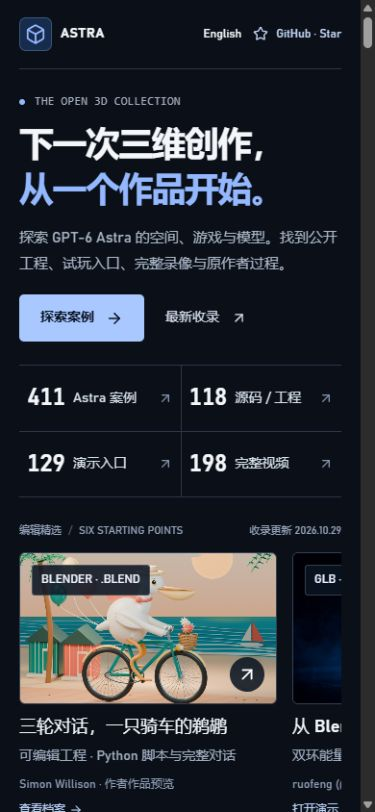
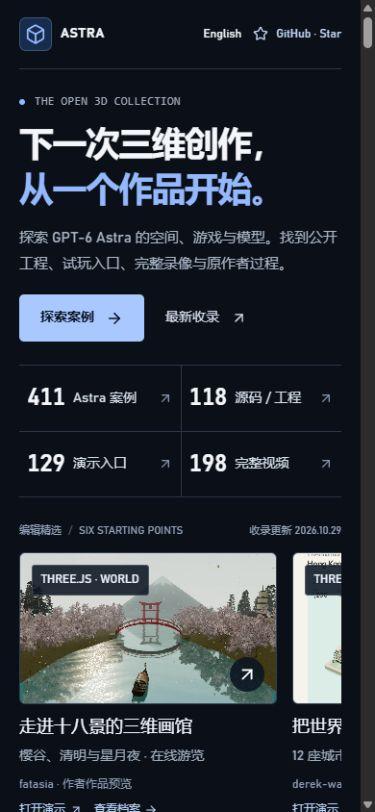
Refresh featured works and direct demo links
R-0002: update the bilingual README and website selection, preserve archive access, and verify the creator-hosted entry points.

Changed region(s): [[0.0293, 0.6773, 0.9387, 1.0]]

diff --git a/app/welcome.tsx b/app/welcome.tsx
@@ -20,43 +20,37 @@ import { collectionHref, navigateToSection } from '@/src/section-navigation';
 const github = 'https://github.com/carpentry-liu/awesome-astra-3d';
 const spotlights = [
   {
-    id: 'simonw-pelican-bicycle',
-    name: [
-      '三轮对话，一只骑车的鹈鹕',
-      'A pelican, a bicycle, three iterations',
-    ],
-    label: 'BLENDER · .BLEND',
-    note: [
-      '可编辑工程 · Python 脚本与完整对话',
-      'Editable project · Python scripts & transcript',
-    ],
-  },
-  {
-    id: 'ruofeng-orbital-core',
-    name: ['从 Blender，来到你的浏览器', 'From Blender to your browser'],
-    label: 'GLB · THREE.JS',
-    note: [
-      '双环能量核心 · 模型与前端代码',
-      'Orbital Core · Model & frontend code',
-    ],
-  },
-  {
-    id: 'peter-van-gogh-town',
-    name: ['走进梵高画里的小镇', 'Walk into a painted world'],
+    id: 'fatasia-within-gallery',
+    name: ['走进十八景的三维画馆', 'Explore eighteen 3D worlds'],
     label: 'THREE.JS · WORLD',
     note: [
-      '可连续漫步 · 原始单文件网页',
-      'A walkable town · Original single-file page',
+      '樱谷、清明与星月夜 · 在线游览',
+      'Sakura, painted cities & night skies',
     ],
   },
   {
-    id: 'scottstts-jelly-baby',
-    name: ['拉伸、抛掷，和果冻玩一会儿', 'Stretch, throw and play with jelly'],
+    id: 'derek-opencitymaker',
+    name: ['把世界地标拼成三维 2048', 'Build a city, one merge at a time'],
     label: 'THREE.JS · GAME',
     note: [
-      '果冻角色游乐场 · 演示与源码',
-      'Jelly Baby playground · Demo & source',
+      '12 座城市 · 可旋转的建筑拼图',
+      'Twelve cities · Playable landmark puzzle',
     ],
+  },
+  {
+    id: 'kosti-shenzhen-night-market',
+    name: ['走进雨后的深圳夜市', 'Explore Shenzhen after the rain'],
+    label: 'BLENDER · THREE.JS',
+    note: [
+      'Blender 成果 · Three.js 在线场景',
+      'Blender render · Three.js scene',
+    ],
+  },
+  {
+    id: 'pratikgx-embryo-explorer',
+    name: ['拆开看十六阶段三维示意', 'Explore sixteen stages in 3D'],
+    label: 'THREE.JS · EDUCATION',
+    note: ['可缩放、拆分的教育示意', 'Zoomable, explodable educational model'],
   },
   {
     id: 'bambssquad-jetis-digital-twin',
@@ -236,13 +230,19 @@ export function Welcome({
             const item = astra.find((c) => c.id === entry.id);
             if (!item) return null;
             const href = caseHref(item.id, locale);
+            const primaryHref = item.demoUrl ?? href;
+            const demoLink = Boolean(item.demoUrl);
             return (
               <article className="featured-work" key={entry.id}>
                 <a
-                  href={href}
+                  href={primaryHref}
                   className="featured-art"
-                  onClick={(event) => onOpen(event, item)}
-                  aria-label={`${t.openArchive}: ${workTitle(item, locale)}`}
+                  target={demoLink ? '_blank' : undefined}
+                  rel={demoLink ? 'noreferrer' : undefined}
+                  onClick={
+                    demoLink ? undefined : (event) => onOpen(event, item)
+                  }
+                  aria-label={`${demoLink ? t.openDemo : t.openArchive}: ${workTitle(item, locale)}`}
                 >
                   {item.imageUrl && !failedImages.includes(item.id) ? (
                     <img
@@ -258,7 +258,7 @@ export function Welcome({
                   ) : (
                     <div className="spotlight-fallback">
                       <Layers3 size={40} />
-                      <span>{t.openArchive}</span>
+                      <span>{demoLink ? t.openDemo : t.openArchive}</span>
                     </div>
                   )}
                   <span className="featured-label">{entry.label}</span>
@@ -268,7 +268,14 @@ export function Welcome({
                 </a>
                 <div className="featured-caption">
                   <h2>
-                    <a href={href} onClick={(event) => onOpen(event, item)}>
+                    <a
+                      href={primaryHref}
+                      target={demoLink ? '_blank' : undefined}
+                      rel={demoLink ? 'noreferrer' : undefined}
+                      onClick={
+                        demoLink ? undefined : (event) => onOpen(event, item)
+                      }
+                    >
                       {entry.name[languageIndex]}
                     </a>
                   </h2>
@@ -277,15 +284,25 @@ export function Welcome({
                     <span>
                       {item.author} · {t.preview}
                     </span>
-                    {item.demoUrl ? (
-                      <a href={item.demoUrl} target="_blank" rel="noreferrer">
-                        {t.openDemo} <ArrowUpRight size={14} />
+                    <div className="featured-links">
+                      {item.demoUrl && (
+                        <a
+                          href={item.demoUrl}
+                          target="_blank"
+                          rel="noreferrer"
+                          aria-label={`${t.openDemo}: ${workTitle(item, locale)}`}
+                        >
+                          {t.openDemo} <ArrowUpRight size={14} />
+                        </a>
+                      )}
+                      <a
+                        href={href}
+                        onClick={(event) => onOpen(event, item)}
+                        aria-label={`${t.openArchive}: ${workTitle(item, locale)}`}
+                      >
+                        {t.openArchive} <ArrowRight size={14} />
                       </a>
-                    ) : (
-                      <a href={href} onClick={(event) => onOpen(event, item)}>
-                        {t.process} <ArrowRight size={14} />
-                      </a>
-                    )}
+                    </div>
                   </div>
                 </div>
               </article>

diff --git a/app/welcome.css b/app/welcome.css
@@ -148,6 +148,12 @@
   min-width: 0;
   overflow-wrap: anywhere;
 }
+.featured-links {
+  display: flex;
+  gap: 6px 12px;
+  flex-wrap: wrap;
+  justify-content: flex-end;
+}
 .featured-credit a,
 .featured-credit button {
   display: inline-flex;

diff --git a/README.en.md b/README.en.md
@@ -20,15 +20,15 @@ Source / project totals count public material links; demo totals count creator-h
 
 ## Six featured works to start from
 
-| Pelican on a bicycle · Simon Willison | Orbital Core · ruofeng | Van Gogh's Town · Peter Gostev |
+| [WITHIN · fatasia](https://fatasia.github.io/within/) | [CityMaker · derek-wangpch](https://citymaker.0to1app.com/) | [Shenzhen After Rain · Skyline](https://kostikoneuro.github.io/kimi-vs-astra/2a-diorama/astra/) |
 | --- | --- | --- |
-| [![Pelican on a bicycle — Simon Willison](https://static.simonwillison.net/static/2026/astra-blender-pelican.jpg)](https://carpentry-liu.github.io/awesome-astra-3d/en/cases/simonw-pelican-bicycle/) | [![Orbital Core — ruofeng / @oneruofeng](https://pbs.twimg.com/amplify_video_thumb/2096549512995368961/img/kyuKVBrCE5i7fHA8.jpg)](https://carpentry-liu.github.io/awesome-astra-3d/en/cases/ruofeng-orbital-core/) | [![Van Gogh's Town — Peter Gostev / @petergostev](https://pbs.twimg.com/amplify_video_thumb/2095776416302280708/img/IzfZe03VWW3gBzC6.jpg)](https://carpentry-liu.github.io/awesome-astra-3d/en/cases/peter-van-gogh-town/) |
-| Three `.blend` iterations, scripts and conversations to compare geometry and composition. | Blender → GLB → Three.js, with assets and interaction code. | A continuous painted world, with original HTML, task sources and a complete clip. |
-| Jelly Baby · Scott | Jetis · bambssquad / Bam | Five 3D stories · az9713 |
-| [![Jelly Baby — Scott / @scottstts](https://pbs.twimg.com/amplify_video_thumb/2096364109210202112/img/_-nTPLScjLl70avL.jpg)](https://carpentry-liu.github.io/awesome-astra-3d/en/cases/scottstts-jelly-baby/) | [![Jetis factory digital twin — bambssquad / Bam](https://raw.githubusercontent.com/bambssquad/jetis-digital-twin-astra/main/outputs/revision02-overview.jpg)](https://carpentry-liu.github.io/awesome-astra-3d/en/cases/bambssquad-jetis-digital-twin/) | [![Golden Gate bridge assembly — az9713](https://raw.githubusercontent.com/az9713/gpt-6-astra-builds/main/latest/screenshots/04-golden-gate.png)](https://carpentry-liu.github.io/awesome-astra-3d/en/cases/az9713-refined-animations/) |
-| Stretch and throw a Three.js character; inspect the creator's demo and code. | DWG-based factory walkthrough and SketchUp export, with explicit dimension assumptions. | Five twenty-second procedural scenes, Three.js / TSL code and development notes. |
+| [![WITHIN's Sakura scene](https://raw.githubusercontent.com/fatasia/within/main/public/previews/sakura.webp)](https://fatasia.github.io/within/) | [![CityMaker's 3D city puzzle](https://raw.githubusercontent.com/derek-wangpch/OpenCityMaker/master/docs/images/citymaker-game.png)](https://citymaker.0to1app.com/) | [![Shenzhen After Rain Blender render](https://raw.githubusercontent.com/KostiKoNeuro/kimi-vs-astra/main/2b-blender/astra/hero.png)](https://kostikoneuro.github.io/kimi-vs-astra/2a-diorama/astra/) |
+| Explore eighteen worlds, from Sakura to painted cities.<br>[Try the demo](https://fatasia.github.io/within/) · [Case](https://carpentry-liu.github.io/awesome-astra-3d/en/cases/fatasia-within-gallery/) · [Source](https://github.com/fatasia/within) | Merge landmarks into a 3D game of 2048.<br>[Try the demo](https://citymaker.0to1app.com/) · [Case](https://carpentry-liu.github.io/awesome-astra-3d/en/cases/derek-opencitymaker/) · [Source](https://github.com/derek-wangpch/OpenCityMaker) | The image is a Blender render; the demo is a Three.js scene of the same market.<br>[Try the demo](https://kostikoneuro.github.io/kimi-vs-astra/2a-diorama/astra/) · [Case](https://carpentry-liu.github.io/awesome-astra-3d/en/cases/kosti-shenzhen-night-market/) · [Source](https://github.com/KostiKoNeuro/kimi-vs-astra) |
+| [Embryo Explorer · Pratik Gandhi](https://embryoexplorer.com/) | [Jetis · bambssquad / Bam](https://bambssquad.github.io/jetis-digital-twin-astra/) | [Five 3D stories · az9713](https://az9713.github.io/gpt-6-astra-builds/latest/) |
+| [![Embryo Explorer's sixteen-stage educational model](https://raw.githubusercontent.com/pratikgx/embryo-explorer/main/media/preview.jpg)](https://embryoexplorer.com/) | [![Jetis factory digital twin — bambssquad / Bam](https://raw.githubusercontent.com/bambssquad/jetis-digital-twin-astra/main/outputs/revision02-overview.jpg)](https://bambssquad.github.io/jetis-digital-twin-astra/) | [![Golden Gate bridge assembly — az9713](https://raw.githubusercontent.com/az9713/gpt-6-astra-builds/main/latest/screenshots/04-golden-gate.png)](https://az9713.github.io/gpt-6-astra-builds/latest/) |
+| Zoom into and explore a simplified educational model.<br>[Try the demo](https://embryoexplorer.com/) · [Case](https://carpentry-liu.github.io/awesome-astra-3d/en/cases/pratikgx-embryo-explorer/) · [Source](https://github.com/pratikgx/embryo-explorer) | A DWG-based factory walkthrough and SketchUp export, with dimension assumptions.<br>[Try the demo](https://bambssquad.github.io/jetis-digital-twin-astra/) · [Case](https://carpentry-liu.github.io/awesome-astra-3d/en/cases/bambssquad-jetis-digital-twin/) · [Source](https://github.com/bambssquad/jetis-digital-twin-astra) | Five twenty-second procedural scenes and development notes.<br>[Try the demo](https://az9713.github.io/gpt-6-astra-builds/latest/) · [Case](https://carpentry-liu.github.io/awesome-astra-3d/en/cases/az9713-refined-animations/) · [Source](https://github.com/az9713/gpt-6-astra-builds) |
 
-Open an image for the case, materials and known limitations. This selection stays stable; new additions are listed separately below. Preview images remain on creator hosts.
+Select a title or image to open the creator's demo directly. Case pages retain sources, materials and known limitations. Demos are creator-hosted and some require WebGL; preview images remain on creator hosts.
 
 ## Choose materials and make one small change
 

diff --git a/README.md b/README.md
@@ -20,15 +20,15 @@
 
 ## 六件精选，先选一个想继续做的作品
 
-| 鹈鹕骑车 · Simon Willison | Orbital Core · ruofeng | 梵高小镇 · Peter Gostev |
+| [入画 WITHIN · fatasia](https://fatasia.github.io/within/) | [CityMaker · derek-wangpch](https://citymaker.0to1app.com/) | [深圳雨夜市集 · Skyline](https://kostikoneuro.github.io/kimi-vs-astra/2a-diorama/astra/) |
 | --- | --- | --- |
-| [![鹈鹕骑车 — Simon Willison](https://static.simonwillison.net/static/2026/astra-blender-pelican.jpg)](https://carpentry-liu.github.io/awesome-astra-3d/cases/simonw-pelican-bicycle/) | [![Orbital Core — ruofeng / @oneruofeng](https://pbs.twimg.com/amplify_video_thumb/2096549512995368961/img/kyuKVBrCE5i7fHA8.jpg)](https://carpentry-liu.github.io/awesome-astra-3d/cases/ruofeng-orbital-core/) | [![梵高小镇 — Peter Gostev / @petergostev](https://pbs.twimg.com/amplify_video_thumb/2095776416302280708/img/IzfZe03VWW3gBzC6.jpg)](https://carpentry-liu.github.io/awesome-astra-3d/cases/peter-van-gogh-town/) |
-| 三轮 `.blend`、脚本与对话，研究网格和构图怎样迭代。 | Blender → GLB → Three.js，查看模型与交互的连接。 | 连续绘画世界，查看原始 HTML、任务来源与完整录像。 |
-| Jelly Baby · Scott | Jetis · bambssquad / Bam | 五个三维故事 · az9713 |
-| [![Jelly Baby — Scott / @scottstts](https://pbs.twimg.com/amplify_video_thumb/2096364109210202112/img/_-nTPLScjLl70avL.jpg)](https://carpentry-liu.github.io/awesome-astra-3d/cases/scottstts-jelly-baby/) | [![Jetis 工厂数字孪生 — bambssquad / Bam](https://raw.githubusercontent.com/bambssquad/jetis-digital-twin-astra/main/outputs/revision02-overview.jpg)](https://carpentry-liu.github.io/awesome-astra-3d/cases/bambssquad-jetis-digital-twin/) | [![金门大桥吊装 — az9713](https://raw.githubusercontent.com/az9713/gpt-6-astra-builds/main/latest/screenshots/04-golden-gate.png)](https://carpentry-liu.github.io/awesome-astra-3d/cases/az9713-refined-animations/) |
-| 可拉伸、抛掷的 Three.js 角色，带作者演示与源码。 | DWG 到工厂漫游与 SketchUp 导出；尺寸假设另有说明。 | 五个二十秒程序场景，查看 Three.js / TSL 源码与制作讲解。 |
+| [![入画 WITHIN 的樱谷场景](https://raw.githubusercontent.com/fatasia/within/main/public/previews/sakura.webp)](https://fatasia.github.io/within/) | [![CityMaker 城市拼图](https://raw.githubusercontent.com/derek-wangpch/OpenCityMaker/master/docs/images/citymaker-game.png)](https://citymaker.0to1app.com/) | [![深圳雨夜市集的 Blender 成果图](https://raw.githubusercontent.com/KostiKoNeuro/kimi-vs-astra/main/2b-blender/astra/hero.png)](https://kostikoneuro.github.io/kimi-vs-astra/2a-diorama/astra/) |
+| 游览樱谷、清明等十八个三维世界。<br>[在线体验](https://fatasia.github.io/within/) · [作品档案](https://carpentry-liu.github.io/awesome-astra-3d/cases/fatasia-within-gallery/) · [源码](https://github.com/fatasia/within) | 把世界地标拼成三维 2048。<br>[在线体验](https://citymaker.0to1app.com/) · [作品档案](https://carpentry-liu.github.io/awesome-astra-3d/cases/derek-opencitymaker/) · [源码](https://github.com/derek-wangpch/OpenCityMaker) | 图为 Blender 成果，演示为同主题 Three.js 夜市。<br>[在线体验](https://kostikoneuro.github.io/kimi-vs-astra/2a-diorama/astra/) · [作品档案](https://carpentry-liu.github.io/awesome-astra-3d/cases/kosti-shenzhen-night-market/) · [源码](https://github.com/KostiKoNeuro/kimi-vs-astra) |
+| [Embryo Explorer · Pratik Gandhi](https://embryoexplorer.com/) | [Jetis · bambssquad / Bam](https://bambssquad.github.io/jetis-digital-twin-astra/) | [五个三维故事 · az9713](https://az9713.github.io/gpt-6-astra-builds/latest/) |
+| [![Embryo Explorer 十六阶段三维示意](https://raw.githubusercontent.com/pratikgx/embryo-explorer/main/media/preview.jpg)](https://embryoexplorer.com/) | [![Jetis 工厂数字孪生 — bambssquad / Bam](https://raw.githubusercontent.com/bambssquad/jetis-digital-twin-astra/main/outputs/revision02-overview.jpg)](https://bambssquad.github.io/jetis-digital-twin-astra/) | [![金门大桥吊装 — az9713](https://raw.githubusercontent.com/az9713/gpt-6-astra-builds/main/latest/screenshots/04-golden-gate.png)](https://az9713.github.io/gpt-6-astra-builds/latest/) |
+| 缩放、拆分十六阶段的教育示意。<br>[在线体验](https://embryoexplorer.com/) · [作品档案](https://carpentry-liu.github.io/awesome-astra-3d/cases/pratikgx-embryo-explorer/) · [源码](https://github.com/pratikgx/embryo-explorer) | DWG 到工厂漫游与 SketchUp 导出；尺寸假设另有说明。<br>[在线体验](https://bambssquad.github.io/jetis-digital-twin-astra/) · [作品档案](https://carpentry-liu.github.io/awesome-astra-3d/cases/bambssquad-jetis-digital-twin/) · [源码](https://github.com/bambssquad/jetis-digital-twin-astra) | 五个二十秒程序场景与制作讲解。<br>[在线体验](https://az9713.github.io/gpt-6-astra-builds/latest/) · [作品档案](https://carpentry-liu.github.io/awesome-astra-3d/cases/az9713-refined-animations/) · [源码](https://github.com/az9713/gpt-6-astra-builds) |
 
-点击图片查看作品档案、材料与已知限制。精选保持稳定，日常新增在下方独立展示；效果图外链原作者媒体。
+点击标题或图片直接打开作者演示；作品档案保留来源、材料与已知限制。演示由作者托管，部分场景需要支持 WebGL 的设备；效果图外链原作者媒体。
 
 ## 选材料，开始一个小改动
 

diff --git a/docs/maintenance.md b/docs/maintenance.md
@@ -60,6 +60,16 @@ npm start
 
 检查通过后发布到 `main`，[Pages 工作流](../.github/workflows/pages.yml) 检查、构建、下载并校验播放文件，再部署。部署成功后核对公开 JSON、双语详情、metadata、截图和媒体地址；必要时全量 GET 新视频并比对 hash。Git 状态和差异需逐项检查，禁止强推共享分支。
 
+## 精选入口调整与核查（2026-10-29）
+
+中英文 README 与网站精选换入入画 WITHIN、CityMaker、深圳雨夜市集和 Embryo Explorer，保留 Jetis 与五个三维故事。标题和图片直接链接作者演示，另保留作品档案；README 增加源码入口。深圳夜市的 Blender 成果图与 Three.js 演示明确区分。未改案例事实源、视频或收录数量。
+
+本地临时脚本 `py -3.13 work/spotlights-2026-10-29/check-candidates.py` 对候选作品完整 GET；`py -3.13 work/spotlights-2026-10-29/verify-selection.py` 检查最终六项与双语 README 的对应关系、补核英文档案。六个作者演示入口、六张预览图及中英文各六个本站档案均返回 200；图片完整解码，六个源码仓库经 GitHub 接口确认为公开。GET 成功只证明入口响应，不能证明所有三维交互可运行。临时核查脚本和下载缓存未提交。
+
+本地生产构建的内置浏览器核对六张图均加载，六组图片、标题和演示链接指向对应作者地址，档案入口实际打开案例详情。点击 CityMaker 标题后新标签页显示其作者域名与页面标题；内置浏览器读取外站三维页面超时，本轮未完整试玩这六个演示。中文桌面 1440×1100、中文与英文手机 390×844 无页面横向溢出，本地首页控制台 warn/error 均为零。重新拍摄桌面首页及手机首页，JPEG 原样保存；`public/share.jpg` 与首页截图字节一致。
+
+执行 `npm run check`（423 条记录、24 项测试与 TypeScript 通过）、`npm run lint`、`npm run build`，以及设置 `GITHUB_PAGES=true` 后的 `npm run build`；普通构建和 Pages 构建各校验 878 静态页、18,830 条本地引用、423 详情 JSON 和 879 项 sitemap。既有 chunk 体积、插件耗时及 Node 包装告警仍存在。
+
 ## 最近一次内容验证
 
 实测日期为2026-10-29（Asia/Shanghai）。新增 **4件作品、2段完整X录像、1条源码和2个演示入口**：入画WITHIN、暴风雨灯塔、火箭发射回收与MOXstrike。当前423条记录包括 **411条Astra案例**与12条方法参考，保留118条源码/工程入口、129个演示入口和198段归档录像。两条X原帖上海日期为10月27、28日；两个项目首次发布日期未核实，保持null；10月29日是收录与核查日期。MOXstrike的模型归属按转引待复核标记。

diff --git a/docs/media/README.md b/docs/media/README.md
@@ -1,6 +1,6 @@
 # 当前网站实拍
 
-中英文 README 共用以下四张2026-10-29实拍，取自本轮内容更新的本地生产构建。图片由内置浏览器原生捕获为JPEG，逐字节保存；未裁剪、拼接或修饰。
+中英文 README 共用以下四张2026-10-29实拍，取自当天内容更新和同日精选入口调整后的本地生产构建。图片由内置浏览器原生捕获为JPEG，逐字节保存；未裁剪、拼接或修饰。
 
 | 图片 | 内容 | 视口 |
 | --- | --- | --- |
@@ -13,6 +13,6 @@
 
 表中记录浏览器核查视口，截图保留原生捕获尺寸。详情截图展示该作品的实际成果与原始来源入口。
 
-本轮替换10月28日的四张实拍；旧图可从Git历史恢复。中英文README另展示本轮四件第三方成果预览，图片和录像的获取、解码及播放证据另见媒体核查记录。
+当天内容更新替换了10月28日的四张实拍；同日调整精选后重新拍摄首页和手机图。旧图可从Git历史恢复。中英文README另展示本轮四件第三方成果预览，图片和录像的获取、解码及播放证据另见媒体核查记录。
 
 更新时同步双语 README 引用、分享封面和本说明，仅保留当前使用的截图；历史图片从 Git 历史恢复。核查流程与最近一次内容验证见 [维护说明](../maintenance.md)。
